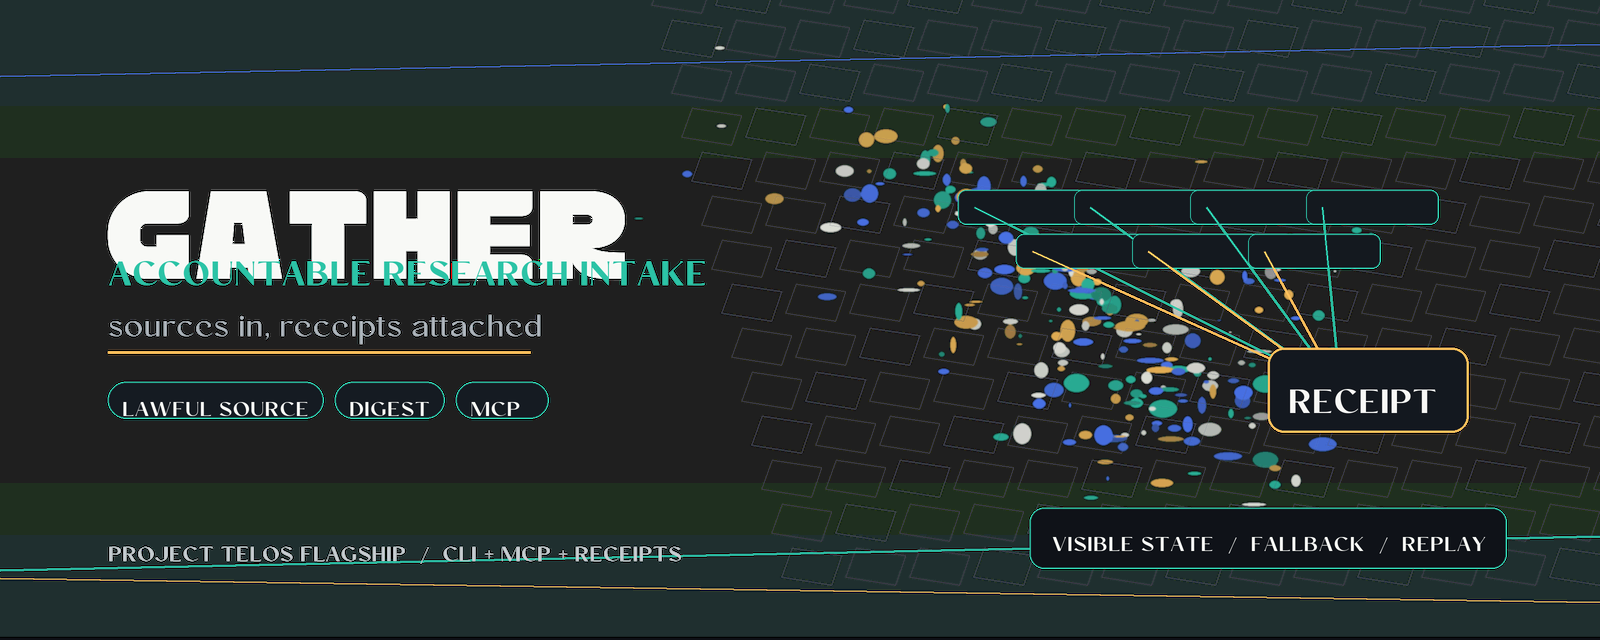
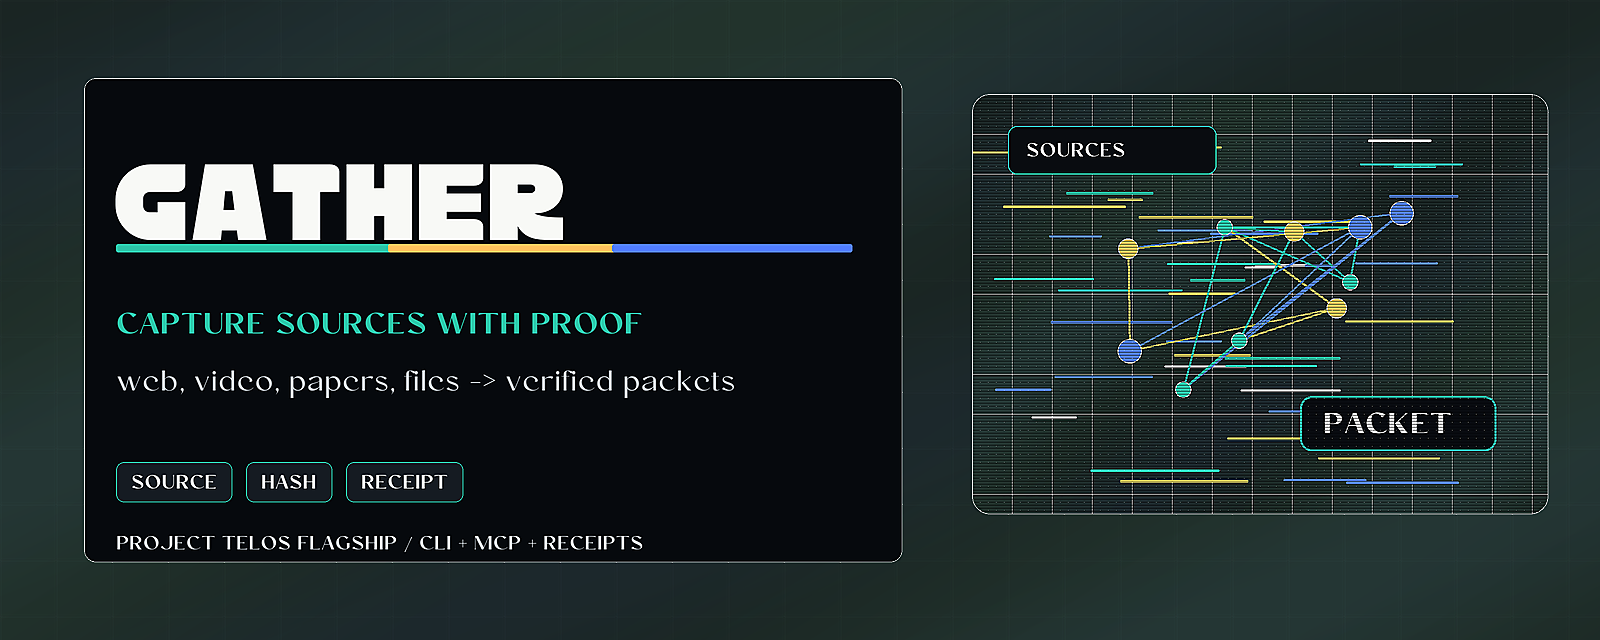
Improve flagship presentation assets (#2)

diff --git a/docs/brand/README.md b/docs/brand/README.md
@@ -1,13 +1,15 @@
 # Gather Brand Assets
 
-The README hero image in this folder was refreshed on 2026-06-28 as part of the Project Telos rendering dogfood pass.
+The README hero image in this folder was refreshed on 2026-06-29 as part of the Project Telos rendering dogfood pass.
 
 ## Rendering Receipt
 
 - Source contract: `telos.rendering.research` in the Telos repository.
-- Visual research lane: Gaussian-splatting fields, clustered-forward lighting grids, visible state overlays, and receipt-first UI composition.
+- Renderer: `project-telos.brand-render/v2`, maintained in `telos/tools/render_flagship_heroes.py`.
+- Visual research lane: Gaussian-splatting fields, clustered-forward lighting grids, visible state overlays, retro CGI texture, dithering, and receipt-first UI composition.
+- Critique lane: `r/design`, `r/design_critiques`, and `r/posterdesign` are used as non-evidentiary presentation references for hierarchy, focal control, poster readability, and effect restraint.
 - Product role: accountable research intake.
 - Tool-specific motif: sources, digests, arrival trail.
 - Typography: rendered locally from the operator-owned Kilon and Conso font packages. The public repository carries only the exported artwork, not the purchased font files.
-- Accessibility floor: high-contrast foreground text, non-color-only status labels, and static PNG fallback for GitHub and low-capability hosts.
+- Accessibility floor: high-contrast foreground text, a solid no-texture text field, non-color-only status labels, and static PNG fallback for GitHub and low-capability hosts.
 - Provenance boundary: Reddit and community links are treated as non-evidentiary source leads; implementation claims resolve through lawful papers, standards, official repositories, and repeatable local checks.

diff --git a/README.md b/README.md
@@ -1,11 +1,11 @@
 <p align="center">
-  <img src="docs/brand/gather-hero.png" alt="Gather, a Project Telos flagship for accountable research intake">
+  <img src="docs/brand/gather-hero.png" alt="Gather, capture sources into verified research packets">
 </p>
 <!-- Project mark: docs/brand/gather-mark.svg -->
 
 # gather
 
-> Bring difficult sources in as receipts, not blurry context.
+> Capture sources as verified research packets.
 
 [Project Telos](https://harperz9.github.io) | [gather](https://github.com/HarperZ9/gather) | [crucible](https://github.com/HarperZ9/crucible) | [index](https://github.com/HarperZ9/index) | [forum](https://github.com/HarperZ9/forum) | [telos](https://github.com/HarperZ9/telos)
 